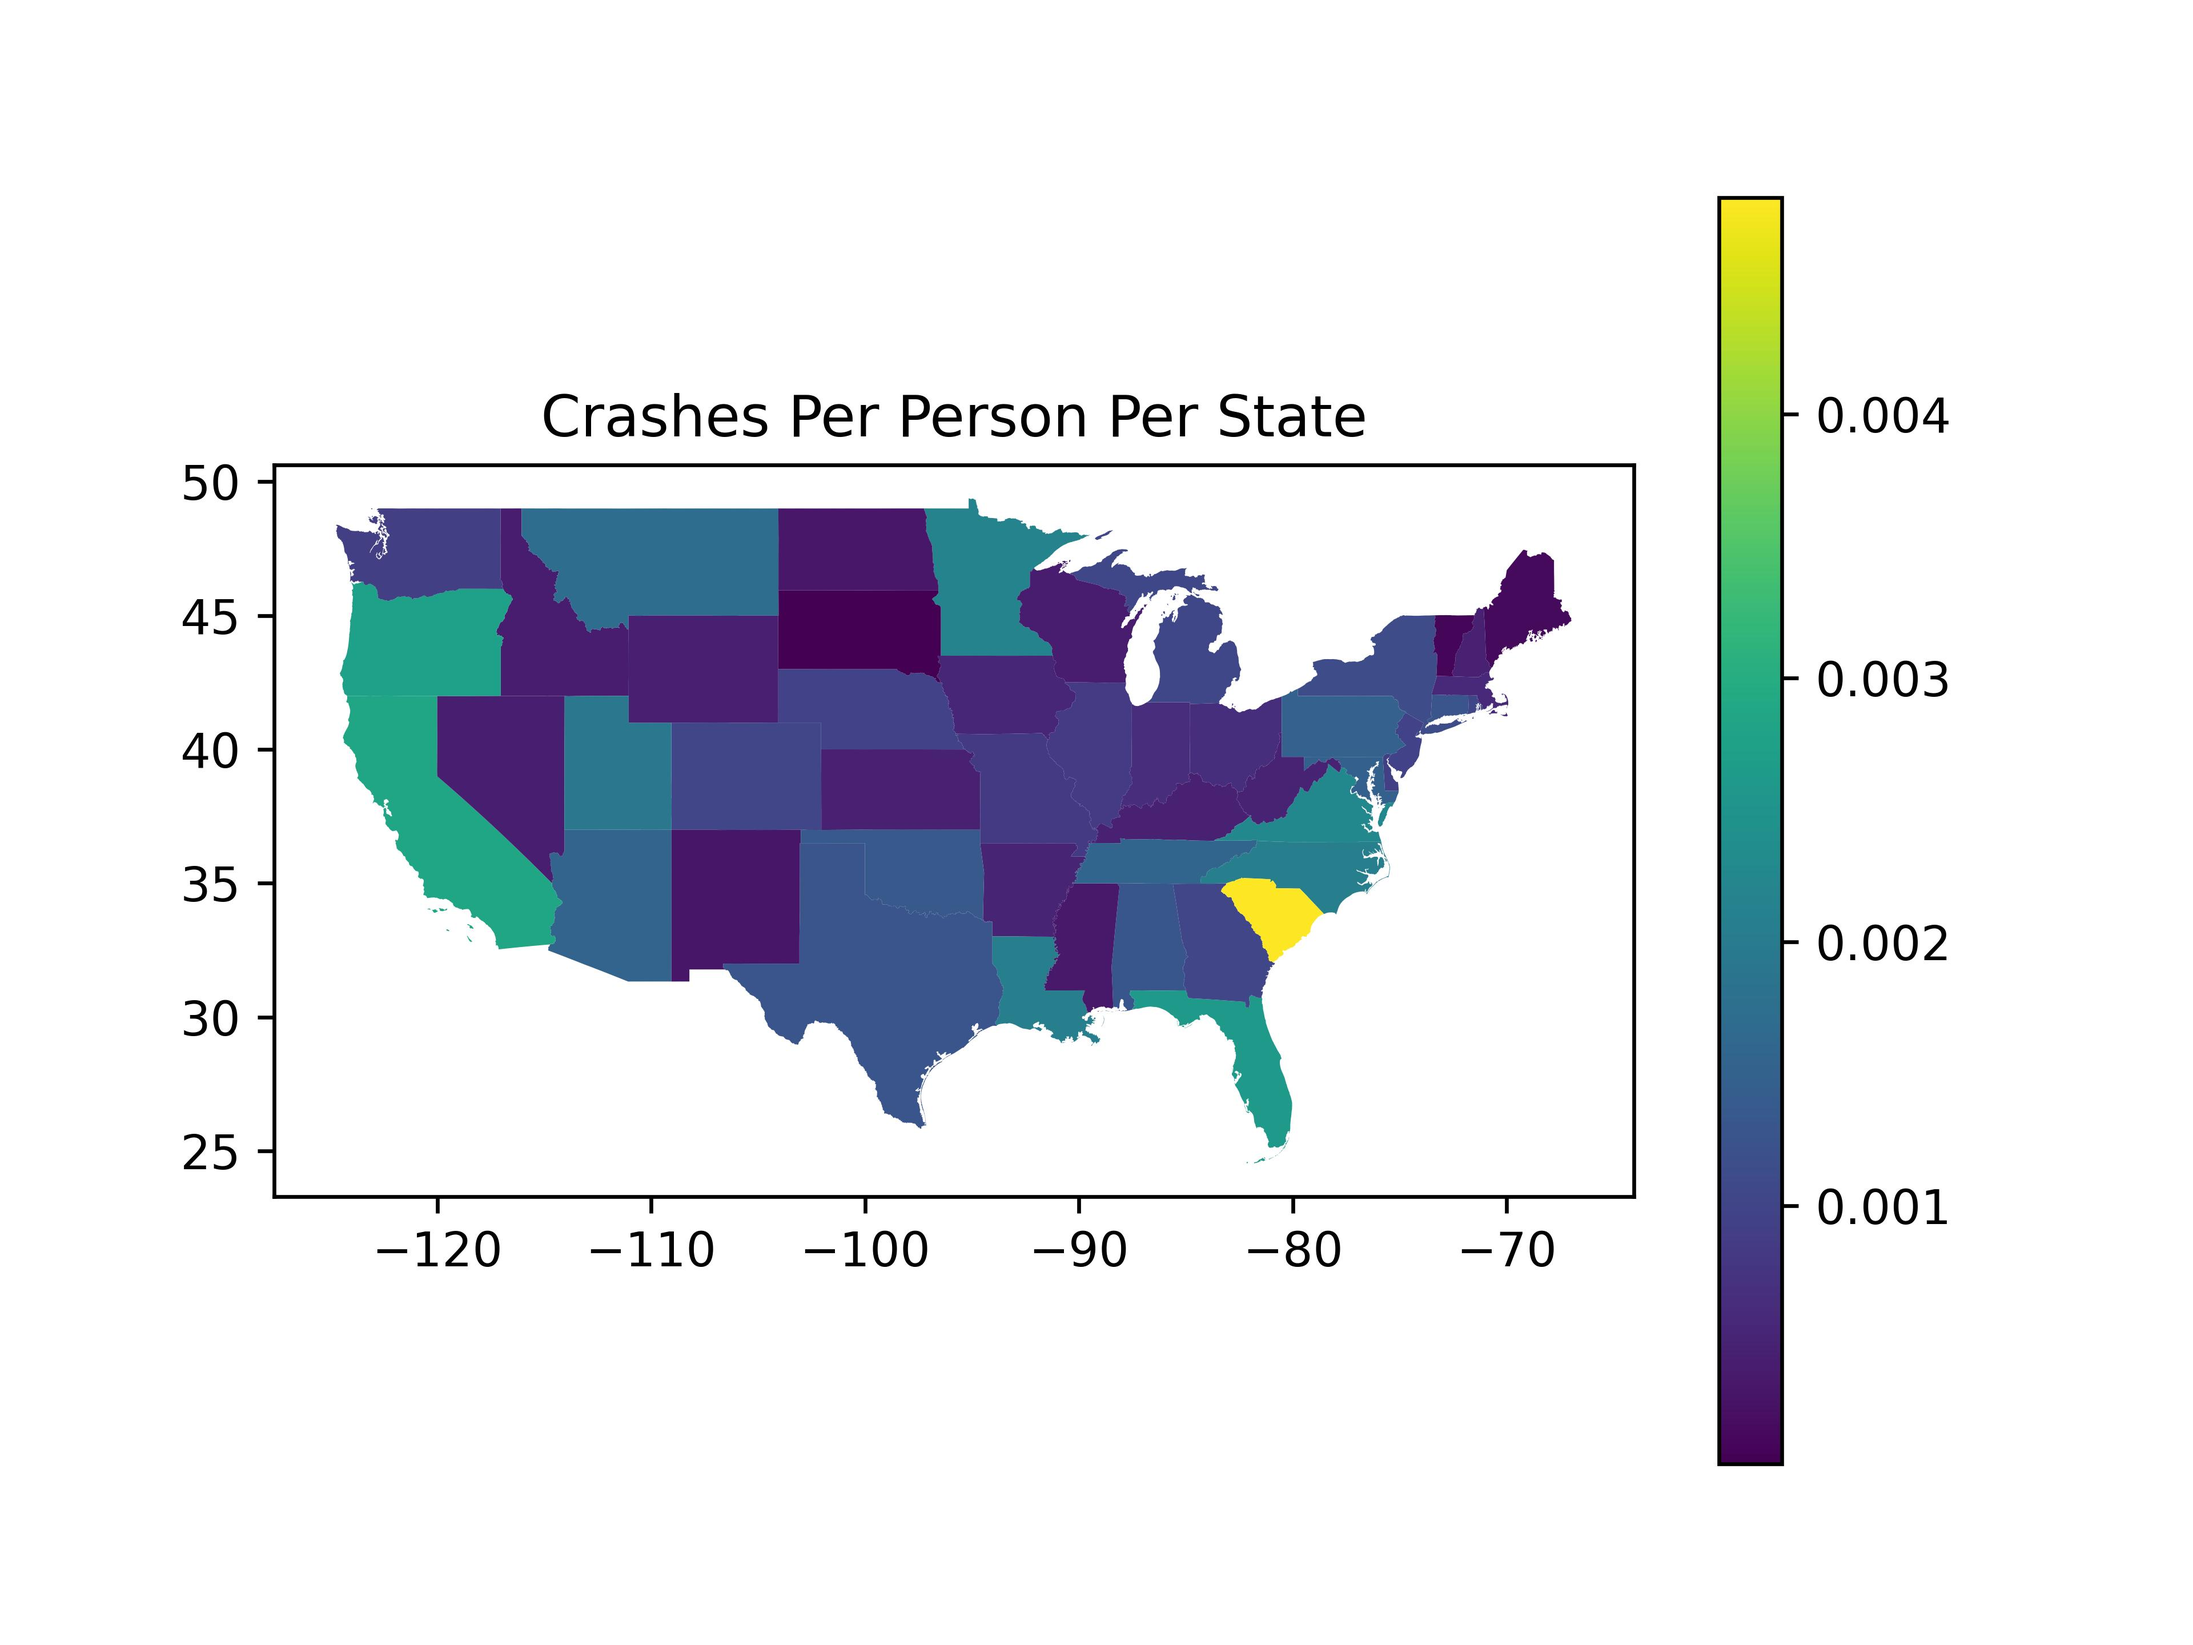
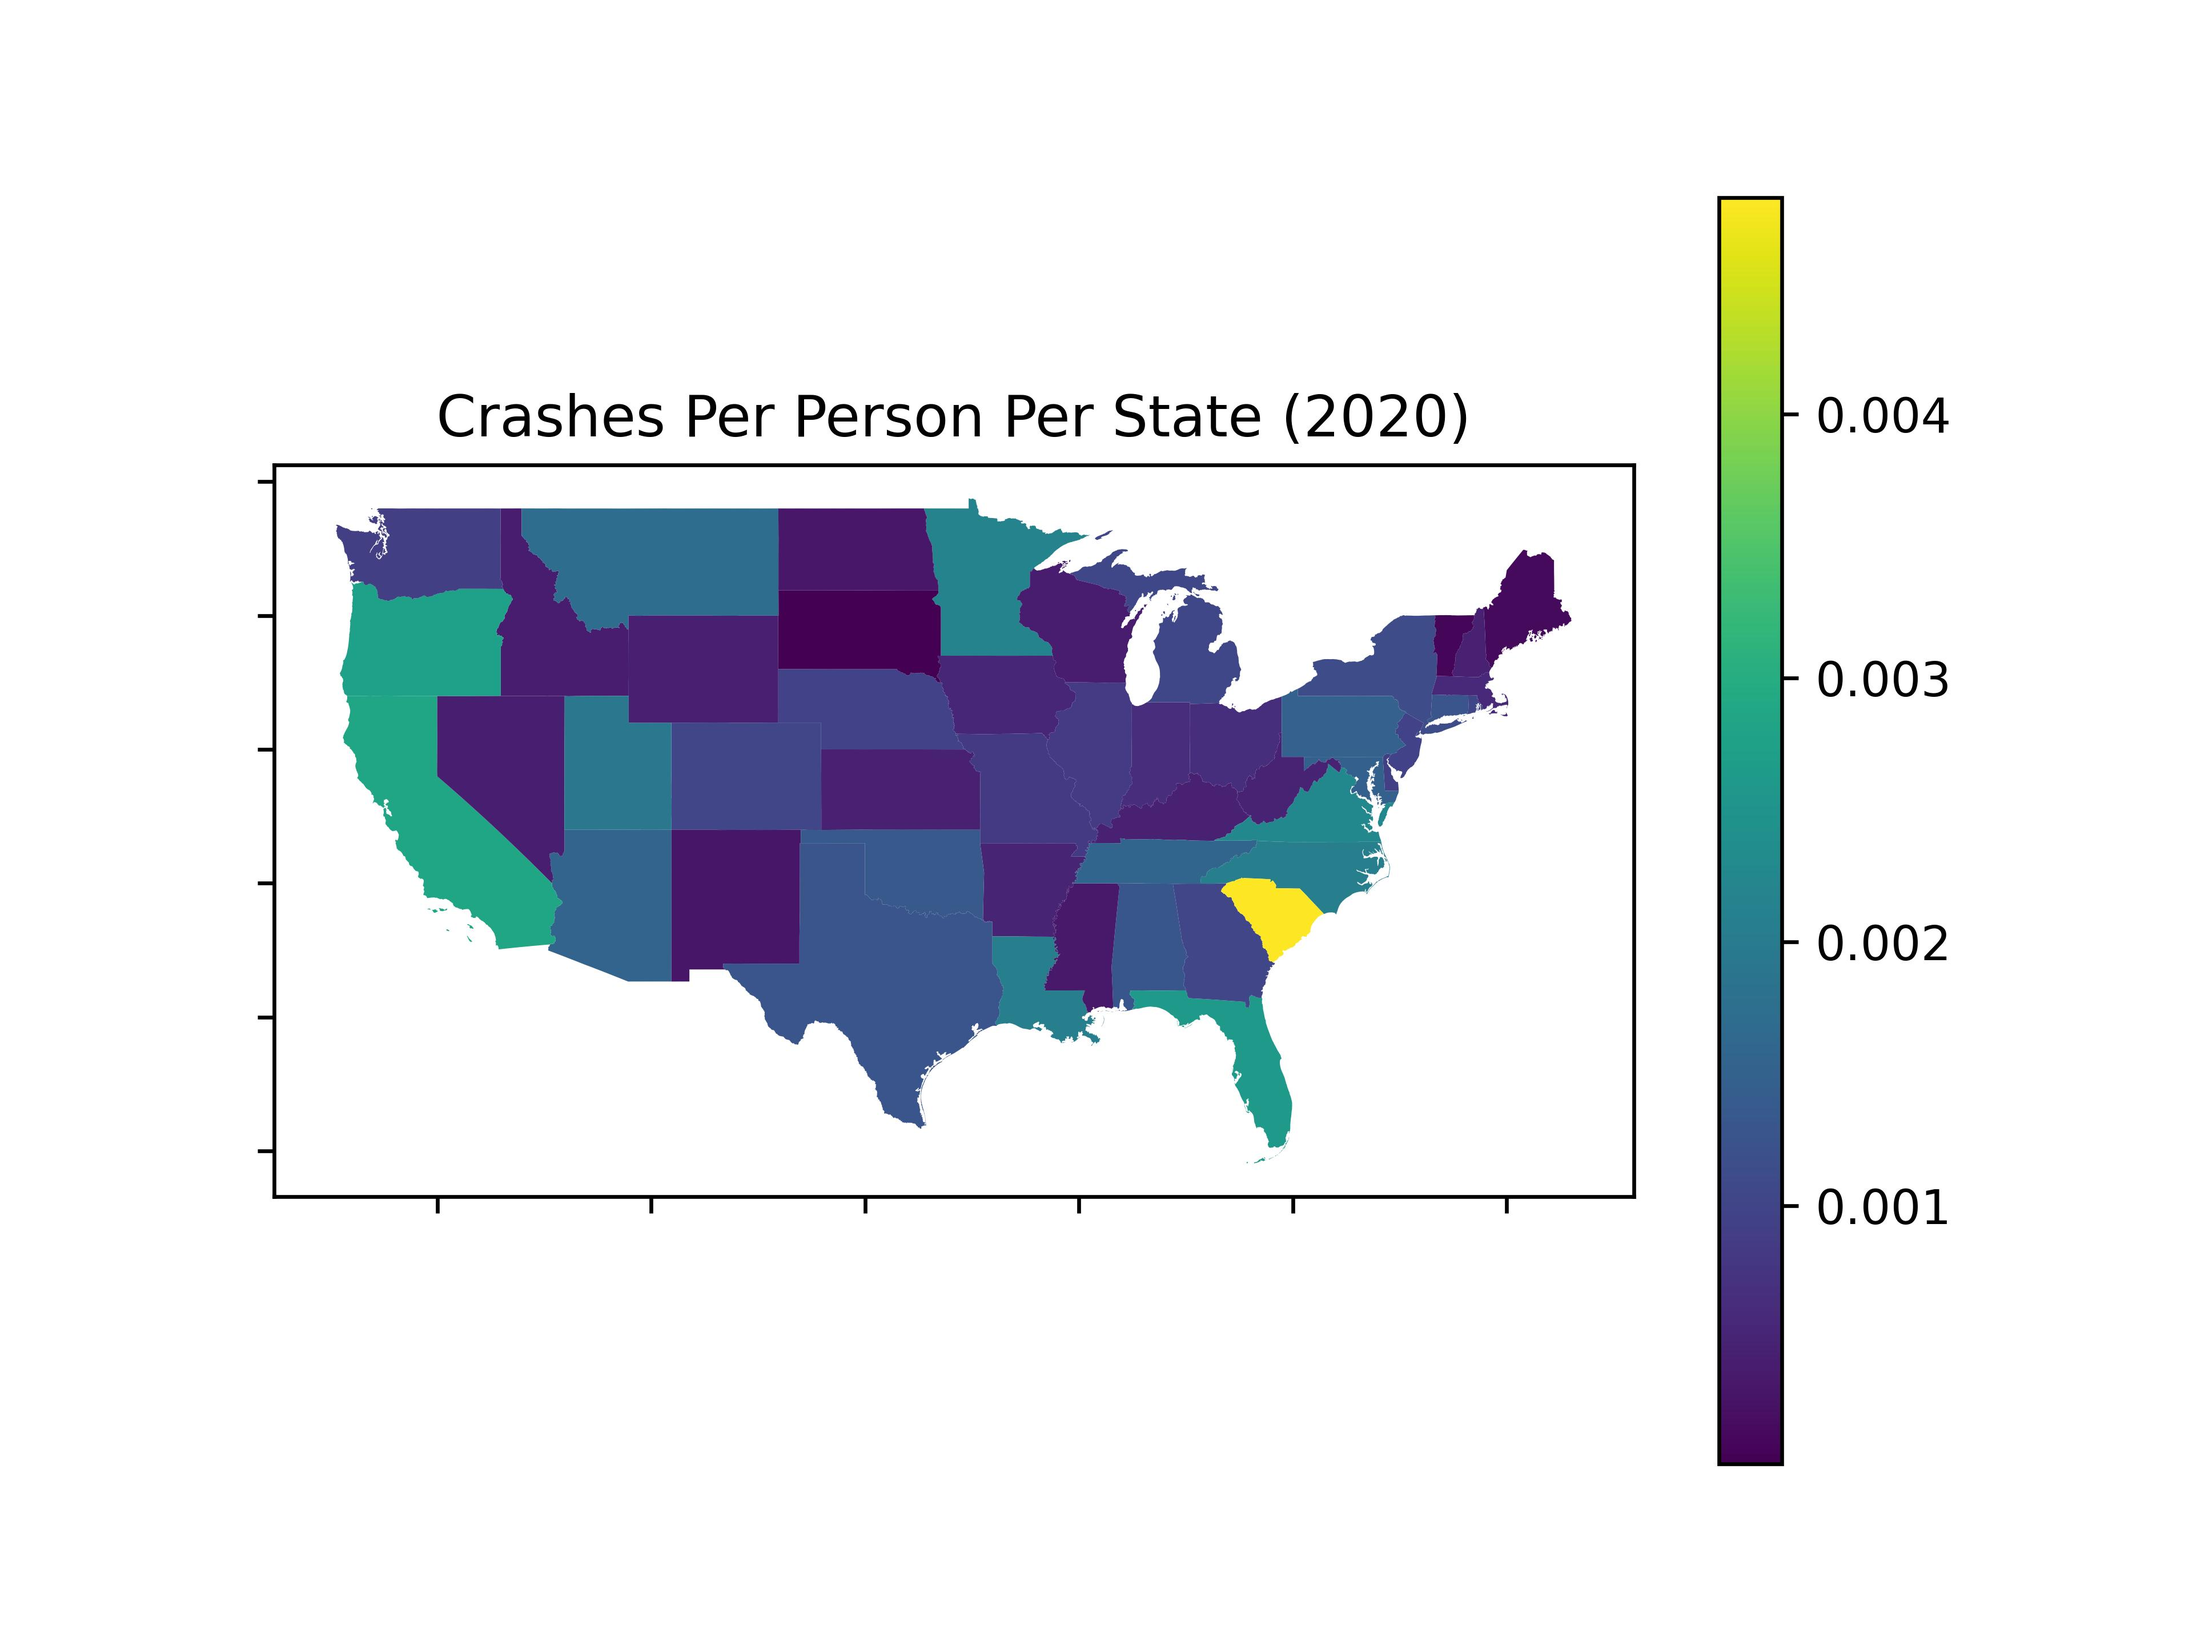
made graph titles and todos

diff --git a/graphs.py b/graphs.py
@@ -58,6 +58,10 @@ def makeGraphs(df,country,highgdf):
     df, geometry=gpd.points_from_xy(df.Start_Lng,df.Start_Lat), crs="EPSG:4326"
     )
 
+    #turn off tick lables, as they aren't usefull
+    ax.set_yticklabels([])
+    ax.set_xticklabels([])
+    plt.title('Crash Locations in the US visualized (February 2016 to Dec 2020)')
     gdf2.plot(aspect=1,ax=ax,markersize=0.1,cmap='PuBu') #column="POP2010"
     plt.savefig('america.jpg', dpi=600)
 
@@ -70,11 +74,16 @@ def makeGraphs(df,country,highgdf):
     #ax.pie(temp, labels=temp.index,autopct='%1.1f%%')
     country2 = country.merge(df2, left_on='NAME', right_on='State',how="left")
     print(country2.head())
+    plt.title('Total Crash per state in the US visualized (February 2016 to Dec 2020)')
+    #TODO color by severity
+    #turn off tick lables, as they aren't usefull
+    ax.set_yticklabels([])
+    ax.set_xticklabels([])
     country2.plot(column = 'ID',ax=ax,legend=True)
 
     #plt.xlabel('x label')
     #plt.ylabel('y label')
-    plt.title('Total Crashes Per State')
+    plt.title('Total Crashes Per State (February 2016 to Dec 2020)')
 
     plt.savefig('states.jpg', dpi=600)
     #adjust for population of state (most recent data for pop is 2019)
@@ -82,11 +91,15 @@ def makeGraphs(df,country,highgdf):
     country2 = country2.merge(df3, left_on='NAME', right_on='Geographic Area',how="left")
     #February 2016 to Dec 2020 crash data, using 2020 census #
     country2["2020"] = country2["2020"].apply(lambda x: int(x.replace(",", "")))
+    #TODO need to limit Start_Time to 2020
     country2["crashsesperpop"] = country2["ID"] / country2["2020"]
     print(country2.head())
     fig, ax = plt.subplots()
+    #turn off tick lables, as they aren't usefull
+    ax.set_yticklabels([])
+    ax.set_xticklabels([])
     country2.plot(column = 'crashsesperpop',ax=ax,legend=True)
-    plt.title('Crashes Per Person Per State')
+    plt.title('Crashes Per Person Per State (2020)')
     plt.savefig('statesadjusted.jpg', dpi=600)
     #graph looking at if states with massive # of crashes corolate to population
     #goal of figuring out what conditions are most common in states with most crashes
